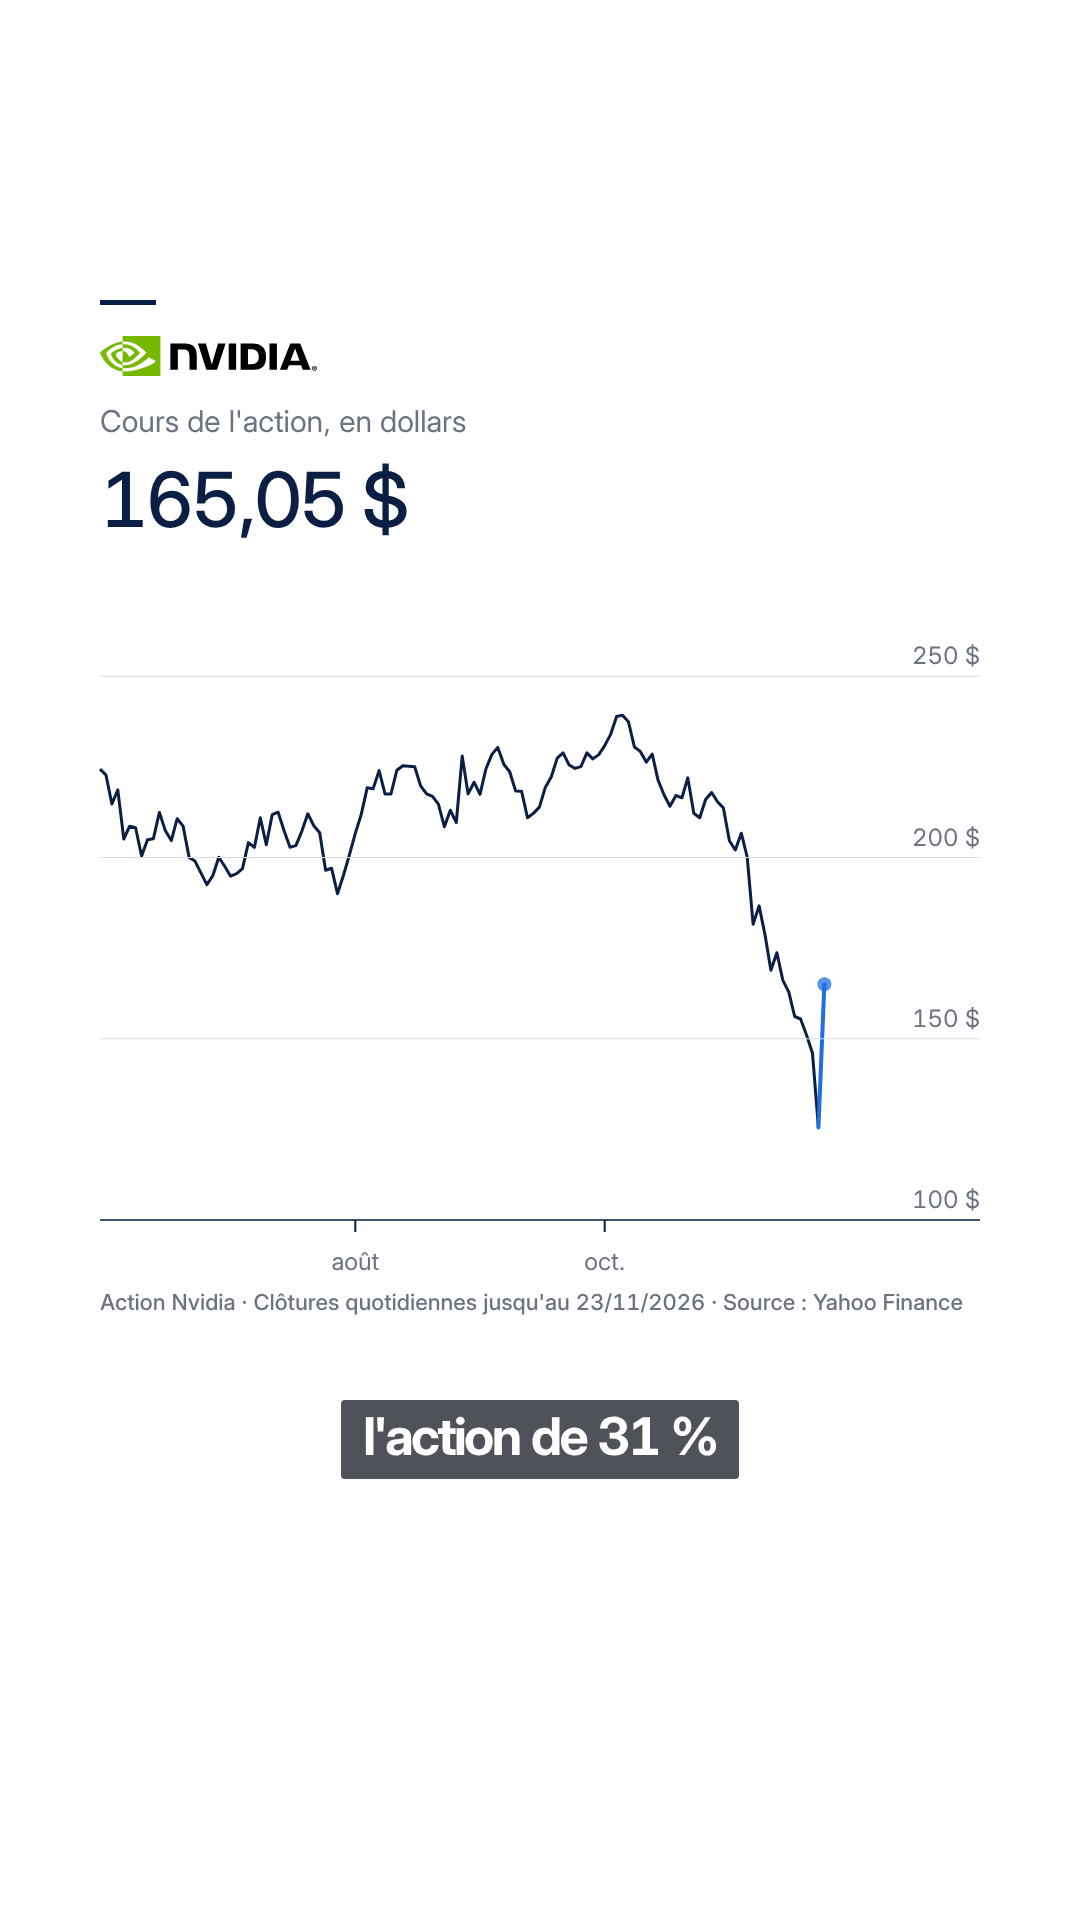
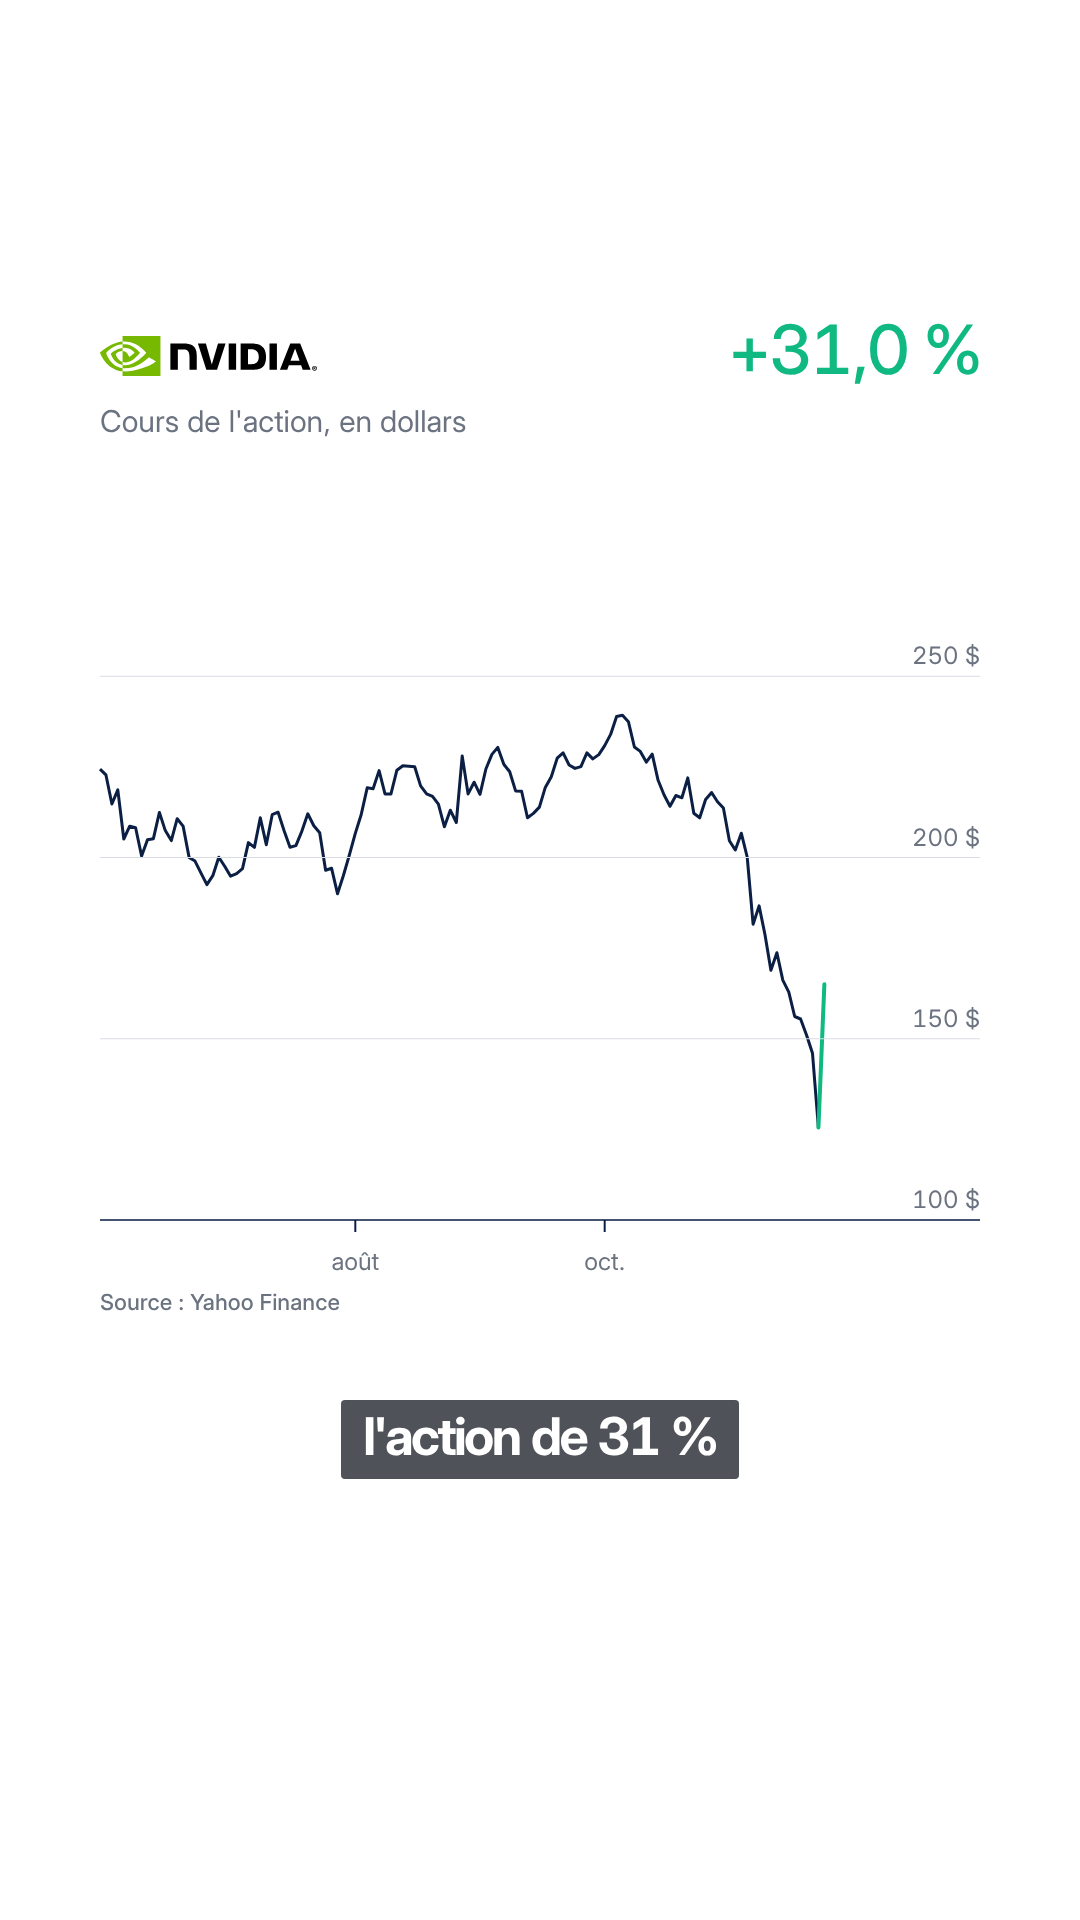
Reel S&P 500 MM200 : un seul chiffre sur la ligne du titre, source seule, vert/rouge/or premium
Claude-Session: https://claude.ai/code/session_0172khLHKtjafTGZdmNpPSJZ

diff --git a/reel-sp500-mm200/index.html b/reel-sp500-mm200/index.html
@@ -35,7 +35,7 @@
       (function () {
         var NS = "http://www.w3.org/2000/svg", tl = gsap.timeline({ paused: true }), END = 15.13;
         var st = document.getElementById("stage"), top = document.getElementById("top");
-        var INK = "#0b1f44", SOFT = "#6b7280", RULE = "#d9dce3", ACC = "#1f6fe0", CLARET = "#a3123a", DN = INK, DNT = CLARET, GR = ACC, GRT = ACC, OR = CLARET;
+        var INK = "#0b1f44", SOFT = "#6b7280", RULE = "#d9dce3", VERT = "#10b981", ROUGE = "#e5484d", OR2 = "#e0a526", ACC = VERT, CLARET = ROUGE, DN = INK, DNT = ROUGE, GR = VERT, GRT = VERT, OR = OR2;
         function div(p, html, style, cls) { var d = document.createElement("div"); d.className = cls || "a"; d.innerHTML = html; d.setAttribute("style", style || ""); p.appendChild(d); return d; }
         function el(s, tag, a, text) { var e = document.createElementNS(NS, tag); for (var k in a) e.setAttribute(k, a[k]); if (text != null) e.textContent = text; s.appendChild(e); return e; }
         function svg(p, x, y, w, h) { var g = document.createElementNS(NS, "svg"); g.setAttribute("width", w); g.setAttribute("height", h); g.style.left = x + "px"; g.style.top = y + "px"; p.appendChild(g); return g; }
@@ -53,12 +53,11 @@
         function stock(s, o) {
           var R = o.R, L = R.length - 1, PX = 100, PY = 640, PW = 760, PH = 580, P = at(R, o.peak), lo = o.lo, hi = o.hi;
           var X = function (i) { return PX + i / (L + 6) * PW; }, Y = function (v) { return PY + PH - (v - lo) / (hi - lo) * PH; };
-          div(s, "", "left:100px; top:300px; width:56px; height:5px; background:" + INK);
           if (o.logo) div(s, "<img src='" + o.logo + "' style='height:40px; display:block'>", "left:100px; top:336px");
           else div(s, o.name, "left:100px; top:330px; font-size:52px; font-weight:700; letter-spacing:-.035em");
           div(s, o.sub, "left:100px; top:404px; font-size:30px; font-weight:400; color:" + SOFT);
-          var tk = div(s, "", "left:100px; top:462px; font-size:76px; font-weight:500; letter-spacing:-.045em; line-height:1; white-space:nowrap");
-          var bd = div(s, o.badge, "left:100px; top:470px; font-size:38px; font-weight:500; letter-spacing:-.02em; white-space:nowrap; color:" + ACC + "; opacity:0");
+          // un seul chiffre, sur la ligne du nom, aligné à droite
+          var tk = div(s, "", "right:100px; top:316px; font-size:68px; font-weight:500; letter-spacing:-.04em; line-height:1; white-space:nowrap; color:" + o.col);
           var g = svg(s, 0, 0, 1080, 1920), cid = "c" + Math.random().toString(36).slice(2), cp = el(el(g, "defs", {}), "clipPath", { id: cid });
           el(cp, "rect", { x: PX - 6, y: PY - 30, width: PW + 12, height: PH + 30 });
           var cam = el(el(g, "g", { "clip-path": "url(#" + cid + ")" }), "g", {});
@@ -72,14 +71,10 @@
           var up = draw(el(cam, "path", { d: "M" + X(L - 1) + " " + Y(R[L - 1][1]) + "L" + X(L) + " " + Y(R[L][1]), fill: "none", stroke: ACC, "stroke-width": 4, "stroke-linecap": "round" }), o.tUp, .5, "power2.out");
           tl.set(up, { strokeDasharray: "none" }, o.tUp + .52);
           var dot = el(cam, "circle", { cx: X(L), cy: Y(R[L][1]), r: 7, fill: ACC, opacity: 0 }); fade(dot, o.tUp + .45, .1);
-          var v0 = R[L - 1][1], v1 = R[L][1], ob = { p: 0 };
-          tk.textContent = fr(v0, o.dec) + (o.unit || "");
-          tl.fromTo(ob, { p: 0 }, { p: 1, duration: .5, ease: "power2.out", immediateRender: false, onUpdate: function () { tk.textContent = fr(v0 + (v1 - v0) * ob.p, o.dec) + (o.unit || ""); } }, o.tUp);
-          // la variation se place à droite du cours, en texte simple
-          tl.call(function () { bd.style.left = (100 + tk.offsetWidth + 28) + "px"; }, null, o.tBadge - .01);
-          bd.style.left = "560px";
-          tl.fromTo(bd, { opacity: 0, x: -10 }, { opacity: 1, x: 0, duration: .3, ease: "power2.out", immediateRender: false }, o.tBadge);
-          div(s, o.src, "top:1290px", "src");
+          var ob = { p: 0 }, pf = function (v) { return (v > 0 ? "+" : v < 0 ? "−" : "") + fr(Math.abs(v), 1) + " %"; };
+          tk.textContent = pf(0);
+          tl.fromTo(ob, { p: 0 }, { p: o.pct, duration: .6, ease: "power2.out", immediateRender: false, onUpdate: function () { tk.textContent = pf(ob.p); } }, o.tUp);
+          div(s, "Source : Yahoo Finance", "top:1290px", "src");
           // zoom : cadre les séances depuis i0 dans la zone du graphique ; les graduations de prix disparaissent (elles ne suivent pas)
           function zoom(i0, t, d, keys) { var xs = [], ys = []; for (var i = i0; i <= L; i++) { xs.push(X(i)); (keys || [1]).forEach(function (k) { ys.push(Y(R[i][k])); }); }
             var x0 = Math.min.apply(0, xs), x1 = Math.max.apply(0, xs), y0 = Math.min.apply(0, ys) - 50, y1 = Math.max.apply(0, ys) + 50;
@@ -109,14 +104,14 @@
 
         // ===== 3. « a fait exploser l'action de 31 % hier » : Nvidia =====
         (function () { var s = sc(4.3, 7.19);
-          var c = stock(s, { R: window.NV, peak: "2026-10-06", lo: 100, hi: 260, ticks: [100, 150, 200, 250], unit: " $", dec: 2, name: "Nvidia", logo: "assets/img/nvidia-logo.svg", sub: "Cours de l'action, en dollars", badge: "+31,5 % lundi", tUp: 5.0, tBadge: 5.8,
+          var c = stock(s, { R: window.NV, peak: "2026-10-06", lo: 100, hi: 260, ticks: [100, 150, 200, 250], unit: " $", dec: 2, name: "Nvidia", logo: "assets/img/nvidia-logo.svg", sub: "Cours de l'action, en dollars", pct: 31.5, col: VERT, tUp: 5.0, tBadge: 5.8,
             icon: "<circle cx='32' cy='32' r='32' fill='#76b900'/><text x='32' y='44' font-size='34' font-weight='800' fill='#fff' text-anchor='middle' font-family='Display'>N</text>",
             src: "Action Nvidia · Clôtures quotidiennes jusqu'au 23/11/2026 · Source : Yahoo Finance" });
           c.zoom(c.L - 9, 5.55, .9); })();
 
         // ===== 4. « et le S&P 500 a suivi. Mais il reste sous cette ligne… » : la ligne (non nommée) apparaît, on resserre =====
         (function () { var s = sc(7.19, 12.49), R = window.SPX;
-          var c = stock(s, { R: R, peak: "2026-10-06", lo: 6200, hi: 8100, ticks: [6500, 7000, 7500, 8000], dec: 0, name: "S&P 500", sub: "Indice, en points", badge: "+4,7 % lundi", tUp: 7.3, tBadge: 7.9,
+          var c = stock(s, { R: R, peak: "2026-10-06", lo: 6200, hi: 8100, ticks: [6500, 7000, 7500, 8000], dec: 0, name: "S&P 500", sub: "Indice, en points", pct: 4.7, col: VERT, tUp: 7.3, tBadge: 7.9,
             icon: "<circle cx='32' cy='32' r='32' fill='#00194b'/><path d='M14 42 L26 30 L34 37 L50 20' fill='none' stroke='#fff' stroke-width='5' stroke-linecap='round' stroke-linejoin='round'/>",
             src: "Indice S&P 500 · Clôtures quotidiennes jusqu'au 23/11/2026 · Source : Yahoo Finance" });
           // la ligne : moyenne mobile à 200 jours, sans légende (elle n'est nommée qu'après le générique)
@@ -126,8 +121,8 @@
           // « sous cette ligne » : on resserre sur les séances depuis le record, prix et ligne dans le cadre
           var T = c.zoom(at(R, "2026-10-01"), 10.15, 1.1, [1, 2]);
           var pL = T(c.X(c.L), c.Y(R[c.L][1])), mL = T(c.X(c.L), c.Y(R[c.L][2])), bx = pL[0] + 34;
-          var br = el(c.g, "path", { d: "M" + (bx - 12) + " " + mL[1] + " H" + bx + " V" + pL[1] + " H" + (bx - 12), fill: "none", stroke: SOFT, "stroke-width": 1.5, opacity: 0 }); fade(br, 11.2, .25);
-          var gl = div(s, "<span style='display:block; font-size:36px; font-weight:500; letter-spacing:-.02em; color:" + CLARET + "'>−1,5 %</span><span style='display:block; font-size:24px; color:" + SOFT + "'>sous la ligne</span>", "left:" + (bx + 18) + "px; top:" + ((pL[1] + mL[1]) / 2 - 40) + "px; line-height:1.15; opacity:0"); fade(gl, 11.3, .25); })();
+          var br = el(c.g, "path", { d: "M" + (bx - 12) + " " + mL[1] + " H" + bx + " V" + pL[1] + " H" + (bx - 12), fill: "none", stroke: OR2, "stroke-width": 2.5, opacity: 0 }); fade(br, 11.2, .25);
+          var gl = div(s, "<span style='display:block; font-size:40px; font-weight:600; letter-spacing:-.02em; color:" + ROUGE + "'>−1,5 %</span>", "left:" + (bx + 18) + "px; top:" + ((pL[1] + mL[1]) / 2 - 26) + "px; line-height:1.15; opacity:0"); fade(gl, 11.3, .25); })();
 
         // ===== 5. « car c'est un signal qui a précédé chaque grande crise » : photos fixes =====
         montage([["nyse.jpg", 12.49, 13.65], ["trader-panique.jpg", 13.65, 15.13, "50% 30%"]]);
